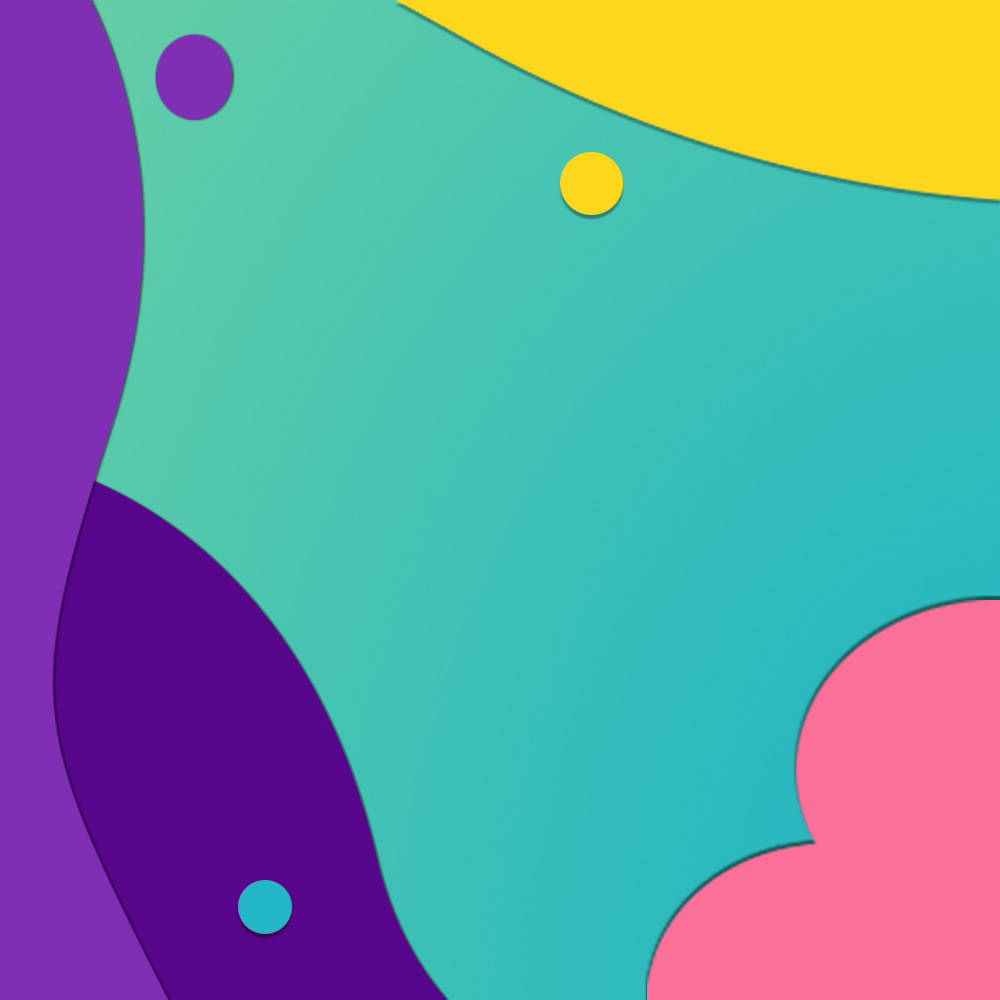
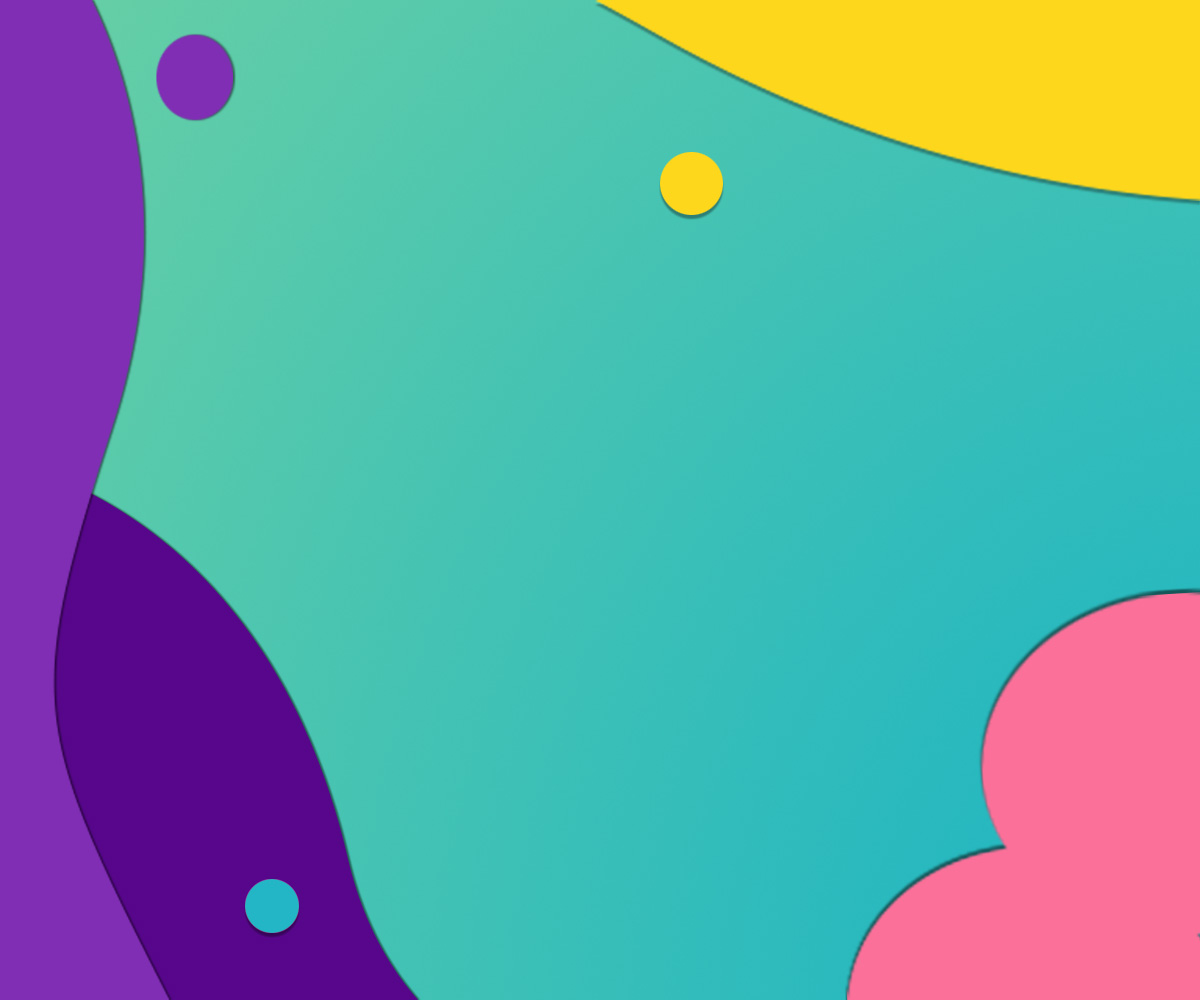
두번째수정

diff --git a/css/style1.css b/css/style1.css
@@ -583,17 +583,19 @@ address{
   width: 100%;
   max-width: 767px;
   background: url(../image/mobile.jpg) no-repeat;
-  background-size: contain;
+  background-size: cover;
   }
   
 .main h2 span{
   font-size: 70px;
 }
+.fourcut{
+  width: 100%;
+  max-width: 767px;
+}
 .fourcut ul{
   height: 1000px;
   flex-direction: column;
-  padding-right: 35%;
-
 }
 .fourcut ul li{
   width: 100%;
@@ -642,7 +644,7 @@ address{
 }
 .footer{
   width: 100%;
-  max-width: 1199px;
+  max-width: 767px;
 }
 
 }
